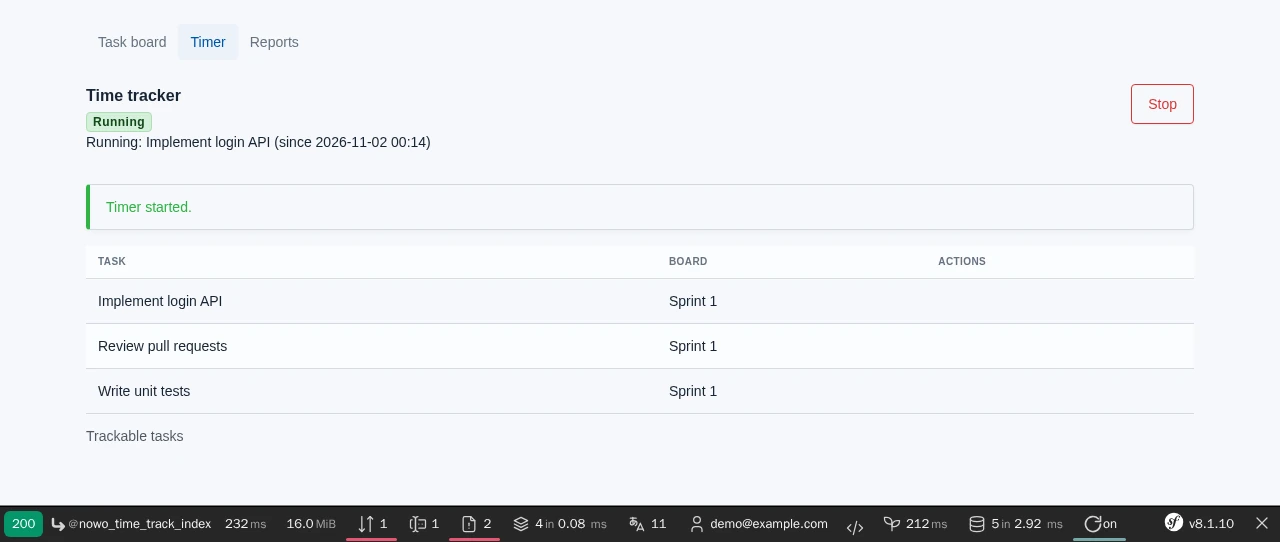
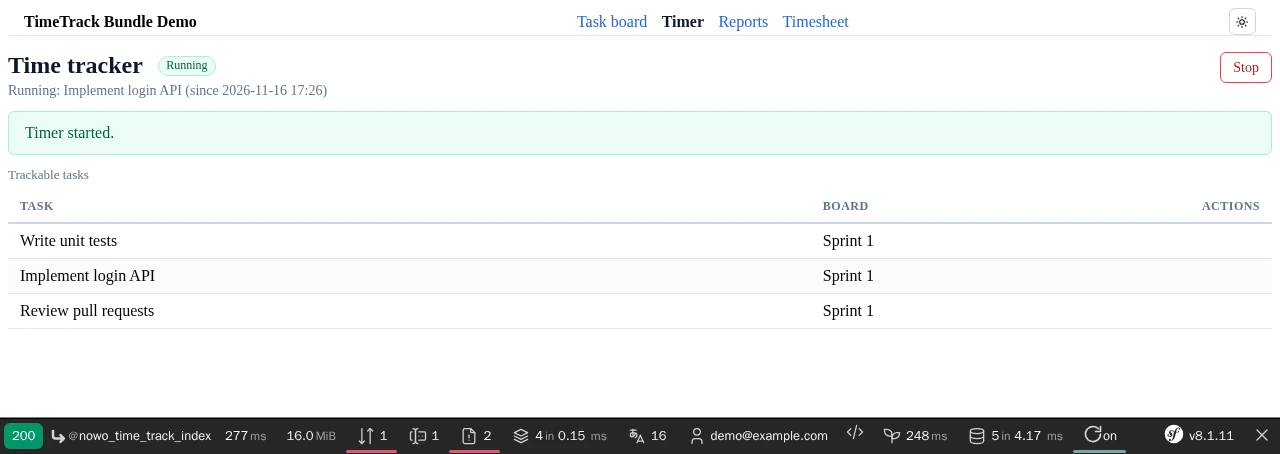
chore(demo): build the demo on UiKit and FormKit (REQ-DEMO-014/015)
The demo shell is UiKit's admin layout with its default theme (masthead with the active item and the
theme toggle; no Tabler CDN shell, no demo.css, no token override), the Twig and Tiptap form themes are
UiKit's with FormKit on top (css_framework none), the timesheet page uses UiKit buttons, the demo requires
ui-kit-bundle ^2.52 and form-kit-bundle ^2.23, and the README WebP screenshots are re-captured. No bundle
runtime change.

diff --git a/demo/symfony8/e2e/tests/screenshots.spec.ts b/demo/symfony8/e2e/tests/screenshots.spec.ts
@@ -21,7 +21,7 @@ async function captureDemoFrame(page: Page, file: string): Promise<void> {
   await expect(toolbar).toBeVisible();
   const toolbarHeight = (await toolbar.boundingBox())?.height ?? 40;
   const contentBottom = await page
-    .locator('.nowo-ui-host-page')
+    .locator('main')
     .first()
     .evaluate((el) => el.getBoundingClientRect().bottom + window.scrollY);
   await page.setViewportSize({ width: WIDTH, height: Math.ceil(contentBottom + 48 + toolbarHeight) });

diff --git a/docs/CHANGELOG.md b/docs/CHANGELOG.md
@@ -67,6 +67,10 @@ and this project adheres to [Semantic Versioning](https://semver.org/spec/v2.0.0
 
 ## [Unreleased]
 
+### Demo
+
+- The demo is built on UiKit and FormKit (REQ-DEMO-014 / REQ-DEMO-015): `templates/base.html.twig` is UiKit's admin layout with its default theme and a masthead with the active item and the theme toggle (the Tabler CDN shell, the `layouts/admin.html.twig` bridge and `demo.css` are gone), `nowo_ui_kit` uses `css_framework: custom` with `icon_set: svg_inline` and no token override, the Twig and Tiptap form themes are UiKit's `nowo_ui_layout`, and `nowo_form_kit.css_framework` is `none`. The timesheet page uses UiKit buttons. The demo requires `nowo-tech/ui-kit-bundle` `^2.52` and `nowo-tech/form-kit-bundle` `^2.23`; the README WebP screenshots are re-captured (REQ-DEMO-013). No bundle runtime change.
+
 ## [1.27.0] - 2026-11-15
 
 Load readiness (Beacon spec 239). See [HIGH-LOAD.md](HIGH-LOAD.md) and [UPGRADING](UPGRADING.md#to-1270).
